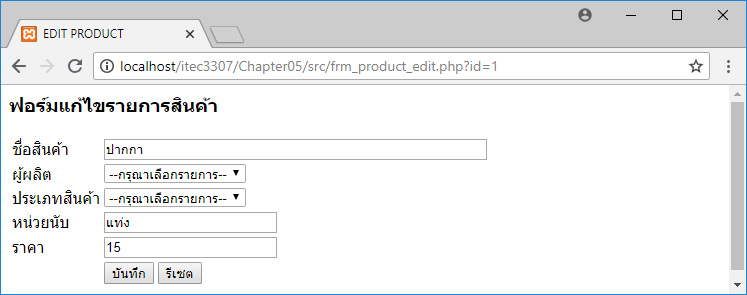
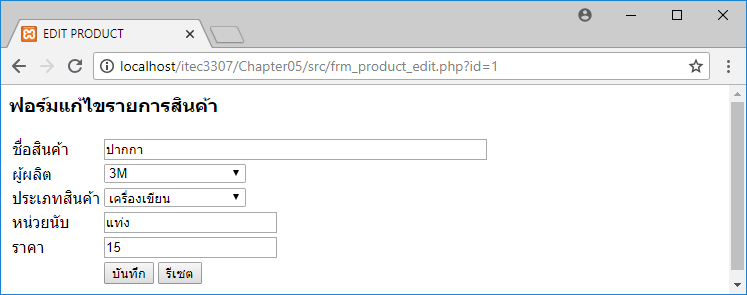
update 16-06-2018 10:59 AM

Changed region(s): [[0.1232, 0.6407, 0.3079, 0.7017], [0.1232, 0.5492, 0.3079, 0.6102]]

diff --git a/Chapter05/src/frm_upload_file.html b/Chapter05/src/frm_upload_file.html
@@ -1,0 +1,30 @@
+<HTML>
+    <HEAD>
+    <TITLE>UPLOAD FILE</TITLE>
+    <META charset="UTF-8">
+    </HEAD>
+    <BODY>
+    <FORM name="frmUploadFile" id="frmUploadFile" method="post" enctype="multipart/form-data" action="file_up.php">
+    <H3>ฟอร์มอัพโหลดไฟล์เอกสาร</H3>
+    <TABLE>
+    <TR>
+        <TH>หัวข้อของไฟล์:</TH>
+        <TD>
+            <INPUT name="txtTitle" id="txtTitle" type="text" size="50" maxlength="50">
+        </TD>
+    </TR>
+    <TR>
+        <TH>เลือกไฟล์ PDF:</TH>
+        <TD>
+            <INPUT name="txtFile" id="txtFile" type="file" size="50">
+            <INPUT name="submit" id="submit" type="submit" value="อัพโหลดไฟล์ PDF"> 
+        </TD>
+    </TR>
+    <TR>
+        <TD></TD>
+        <TD>**รองรับไฟล์ .pdf ขนาดไม่เกิน 5 Mb.</TD>
+    </TR>
+    </TABLE>
+    </FORM>
+    </BODY>
+</HTML>

diff --git a/Chapter05/src/frm_upload_photo.html b/Chapter05/src/frm_upload_photo.html
@@ -1,0 +1,25 @@
+<HTML>
+    <HEAD>
+    <TITLE>UPLOAD PHOTO</TITLE>
+    <META charset="UTF-8">
+    </HEAD>
+    <BODY>
+    <FORM name="frmPhotoProduct" id="frmPhotoProduct" method="post" enctype="multipart/form-data" action="ch05_06.php">
+    <H3>ฟอร์มอัพโหลดรูปภาพ</H3>
+    <TABLE>
+    <TR>
+        <TH>เลือกภาพ:</TH>
+        <TD>
+            <INPUT name="txtProductID" id="txtProductID" type="hidden" size="50" value="1">
+            <INPUT name="txtPhoto" id="txtPhoto" type="file" size="50">
+            <INPUT name="submit" id="submit" type="submit" value="อัพโหลดภาพ"> 
+        </TD>
+    </TR>
+    <TR>
+        <TD></TD>
+        <TD>**รองรับไฟล์ .jpg ขนาดไม่เกิน 5 Mb.</TD>
+    </TR>
+    </TABLE>
+    </FORM>
+    </BODY>
+</HTML>

diff --git a/Chapter05/src/frm_product_edit.php b/Chapter05/src/frm_product_edit.php
@@ -2,21 +2,52 @@
 <HEAD>
 <TITLE>EDIT PRODUCT</TITLE>
 <META charset="UTF-8">
+<?php
+    include "connection.php";
+    $ProductID=$_GET['id']; // การตั้งค่ารับตัวแปรแบบ GET
+    $sql = "SELECT p.*, s.SupplierName, c.CategoryName 
+        FROM ((Products p
+        INNER JOIN Suppliers s ON p.SupplierID = s.SupplierID)
+        INNER JOIN Categories c ON p.CategoryID = c.CategoryID)
+        WHERE p.ProductID='$ProductID';";
+    $result = mysqli_query($conn, $sql); // ประมวลผลคำสั่ง SQL
+    while($row=mysqli_fetch_array($result)) {
+        $txtProductID=$row['ProductID'];
+        $txtProductName=$row['ProductName'];
+        $txtSupplierID=$row['SupplierID'];
+        $txtSupplierName=$row['SupplierName'];
+        $txtCategoryID=$row['CategoryID'];
+		$txtCategoryName=$row['CategoryName'];
+		$txtUnit=$row['Unit'];
+        $txtPrice=$row['Price'];
+    }
+    $sql = "SELECT * FROM Suppliers;";
+    $result_sup = mysqli_query($conn, $sql); // ประมวลผลคำสั่ง SQL
+    $sql = "SELECT * FROM Categories;";
+    $result_cat = mysqli_query($conn, $sql); // ประมวลผลคำสั่ง SQL
+?>
 </HEAD>
 <BODY>
-<FORM name='frmEditProduct' id='frmEditProduct' method='post' action='product_update.php'>
+<FORM name='frmEditProduct' id='frmEditProduct' method='post' action='ch05_05.php'>
 <H3>ฟอร์มแก้ไขรายการสินค้า</H3>
 <TABLE>
 <TR>
 	<TD>ชื่อสินค้า</TD>
-	<TD><INPUT name="txtProductName" type="text" size="50" maxlength="150" value="ปากกา"</TD>
+	<TD><INPUT name="txtProductName" type="text" size="50" maxlength="150" value="<?php echo $txtProductName;?>"</TD>
 </TR>
 <TR>
 	<TD>ผู้ผลิต</TD>
 	<TD>
 	<SELECT name="txtSupplierID" id="txtSupplierID">
-	    <OPTION value="0" selected="selected">--กรุณาเลือกรายการ--</OPTION>
-		<OPTION value="1">3M</OPTION>
+	    <OPTION value="<?php echo $txtSupplierID;?>" selected="selected"><?php echo $txtSupplierName;?></OPTION>
+        <OPTION value="0">--กรุณาเลือกรายการ--</OPTION>
+        <?php
+            while($row_sup=mysqli_fetch_array($result_sup)) {
+        ?> 
+            <OPTION value="<?php echo $row_sup['SupplierID'];?>"><?php echo $row_sup['SupplierName']; ?></OPTION>
+        <?php
+            }
+        ?>
 	</SELECT>
 	</TD>
 </TR>
@@ -24,18 +55,25 @@
 	<TD>ประเภทสินค้า</TD>
 	<TD>
 	<SELECT name="txtCategoryID" id="txtCategoryID">
-	    <OPTION value="0" selected="selected">--กรุณาเลือกรายการ--</OPTION>
-		<OPTION value="1">เครื่องเขียน</OPTION>
+        <OPTION value="<?php echo $txtCategoryID;?>" selected="selected"><?php echo $txtCategoryName;?></OPTION>
+        <OPTION value="0">--กรุณาเลือกรายการ--</OPTION>
+        <?php
+            while($row_cat=mysqli_fetch_array($result_cat)) {
+        ?> 
+            <OPTION value="<?php echo $row_cat['CategoryID'];?>"><?php echo $row_cat['CategoryName']; ?></OPTION>
+        <?php
+            }
+        ?>
 	</SELECT>
 	</TD>
 </TR>
 <TR>
 	<TD>หน่วยนับ</TD>
-	<TD><INPUT name="txtUnit" type="text" value="แท่ง"></TD>
+	<TD><INPUT name="txtUnit" type="text" value="<?php echo $txtUnit;?>"></TD>
 </TR>
 <TR>
 	<TD>ราคา</TD>
-	<TD><INPUT name="txtPrice" type="text" value="15"></TD>
+	<TD><INPUT name="txtPrice" type="text" value="<?php echo $txtPrice;?>"></TD>
 </TR>
 <TR>
 	<TD></TD>

diff --git a/Chapter05/src/frm_product_search.php b/Chapter05/src/frm_product_search.php
@@ -1,0 +1,46 @@
+<HTML>
+<HEAD>
+<TITLE>SEARCH PRODUCTS</TITLE>
+<META charset="UTF-8">
+</HEAD>
+<?php
+	include "connection.php";
+	if(!empty($_POST['txtKeyword'])) {
+		$txtKeyword = $_POST['txtKeyword'];
+	} else {
+		$txtKeyword = '';
+	}
+	$sql="SELECT p.*, s.SupplierName, c.CategoryName FROM (( Products p 
+			INNER JOIN Suppliers s ON p.SupplierID=s.SupplierID)
+			INNER JOIN Categories c ON p.CategoryID=c.CategoryID)
+	        WHERE ProductName LIKE '%$txtKeyword%';";
+	$result=mysqli_query($conn, $sql); 
+?>
+<BODY>
+<FORM name="frmSearchProduct" id="frmSearchProduct" method="post" 
+           action="frm_search_product.php">
+<H3>ฟอร์มค้นหาสินค้า</H3>
+<TABLE>
+<TR>
+	<TH>คำค้นหา:</TH>
+	<TD>
+	    <INPUT name="txtKeyword" id="txtKeyword" type="text" size="50" maxlength="105" 
+		            value="<?php echo $txtKeyword;?>">
+		<INPUT name="submit" id="submit" type="submit" value="ค้นหา"> 
+	</TD>
+</TR>
+</TABLE>
+<H3>รายการสินค้า</H3>
+<TABLE border="1">
+<TR><TH>รายการ</TH><TH>ผู้ผลิต</TH><TH>ประเภทสินค้า</TH><TH>หน่วยนับ</TH><TH>ราคา</TH></TR>
+<?php
+    while($rows = mysqli_fetch_array($result)) {
+		echo "<TR><TD>$rows[ProductName]</TD><TD>$rows[SupplierName]</TD>
+		         <TD>$rows[CategoryName]</TD><TD>$rows[Unit]</TD><TD>$rows[Price]</TD></TR>";
+	}
+	mysqli_close($conn);
+?>
+</TABLE>
+</FORM>
+</BODY>
+</HTML>

diff --git a/Chapter05/src/frm_product_new.php b/Chapter05/src/frm_product_new.php
@@ -26,7 +26,7 @@
         <?php
             while($row_sup=mysqli_fetch_array($result_sup)) {
         ?> 
-            <OPTION value="<?php echo $row_sup['SupplierID'];?>"><?php echo $row_sup['SupplierName']; ?></OPTION>";
+            <OPTION value="<?php echo $row_sup['SupplierID'];?>"><?php echo $row_sup['SupplierName']; ?></OPTION>
         <?php
             }
         ?>
@@ -41,7 +41,7 @@
 		<?php
             while($row_cat=mysqli_fetch_array($result_cat)) {
         ?> 
-            <OPTION value="<?php echo $row_cat['CategoryID'];?>"><?php echo $row_cat['CategoryName']; ?></OPTION>";
+            <OPTION value="<?php echo $row_cat['CategoryID'];?>"><?php echo $row_cat['CategoryName']; ?></OPTION>
         <?php
             }
         ?>

diff --git a/Chapter05/LAB0503.md b/Chapter05/LAB0503.md
@@ -1,3 +1,18 @@
+## เนื้อหาภาคปฏิบัติที่ LAB0503
+### ฝึกปฏิบัติเขียนโปรแกรมการอัพโหลดภาพและการอัพโหลดไฟล์ผ่านฟอร์ม
+#### 1. การอัพโหลดภาพผ่านฟอร์ม
+
+จากโปรแกรม [frm_upload_photo.html](src/frm_upload_photo.html) แสดงผลลัพธ์
+
+<img src=output/frm_upload_photo.png>
+
+ให้คลิกปุ่ม "เลือกไฟล์" ทำเลือกไฟล์รูปภาพตัวอย่าง [MSCI_Wall.jpg](MSCI_Wall.jpg) ลงไปบนฟอร์ม ดังนี้
+
+<img src=output/frm_upload_photo2.png>
+
+ทำการกดปุ่ม "อัพโหลดภาพ" โปรแกรมจะส่งค่าบนฟอร์มเรียกไปยังหน้า [ch05_06.php](src/ch05_06.php) เพื่อประมวลผลคำสั่ง ดังนี้
+
+```
 <?php // ตัวอย่างโปรแกรมที่ 5.6 การอัพโหลดภาพด้วยตัวแปรส่งค่า $_FILES[] // /form/product_photo_up.php
 include "connection.php";
 $txtProductID=$_POST['txtProductID'];
@@ -47,3 +62,19 @@ if(!empty($_FILES['txtPhoto'])){
    }
 }
 ?>
+```
+
+จากโปรแกรมเป็นตั้งค่ารับข้อมูลจากฟอร์ม เพื่อนำไปประมวผลหลายส่วน ได้แก่ การสร้างรายการอ้างอิง การตั้งชื่อภาพ และ การปรับขนาดภาพ
+กรณี ที่ดำเนินการสำเร็จโปรแกรมจะแสดงข้อมูลภาพ ตำแหน่งบันทึก และข้อความว่า “อัพโหลดไฟล์ภาพสำเร็จ” ดังนี้
+
+<img src=output/ch05_06.png>
+
+ตำแหน่งในเว็บเซิร์ฟเวอร์
+
+<img src=output/ch05_06_2.png>
+
+รายการบันทึกในตารางข้อมูล
+
+<img src=output/ch05_06_3.png>
+
+#### 1. การอัพโหลดไฟล์ผ่านฟอร์ม

diff --git a/Chapter05/LAB0501.md b/Chapter05/LAB0501.md
@@ -3,7 +3,7 @@
 #### 1. การส่งค่าผ่าน $_GET[] 
 
 การส่งค่าผ่าน $_GET[] --> src/products.php ส่งค่าไปให้กับ src/ch05_01.php
-จาก โปรแกรม [products.php](src/products.php) คำสั่ง 
+จากโปรแกรม [products.php](src/products.php) คำสั่ง 
 
 ```
     echo "<A href=ch05_01.php?id=".$row['ProductID'].">ลบ</A>";

diff --git a/Chapter05/LAB0502.md b/Chapter05/LAB0502.md
@@ -75,6 +75,6 @@
 ?>
 ```
 
-ได้ผลลัฑธ์ ดังนี้
+ได้ผลลัพธ์ ดังนี้
 
 <img src=output/ch05_05.png>
